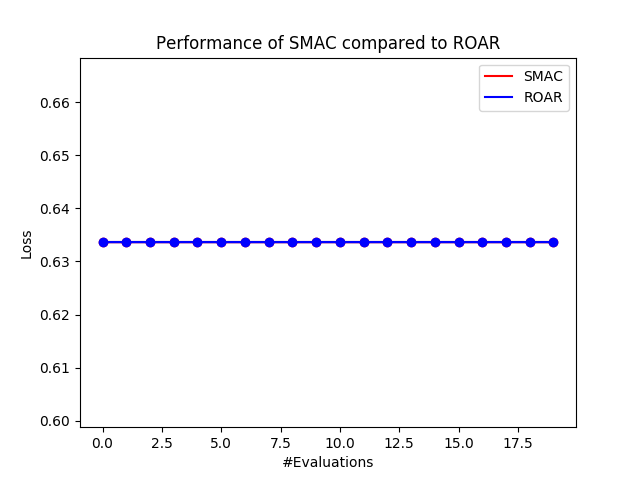
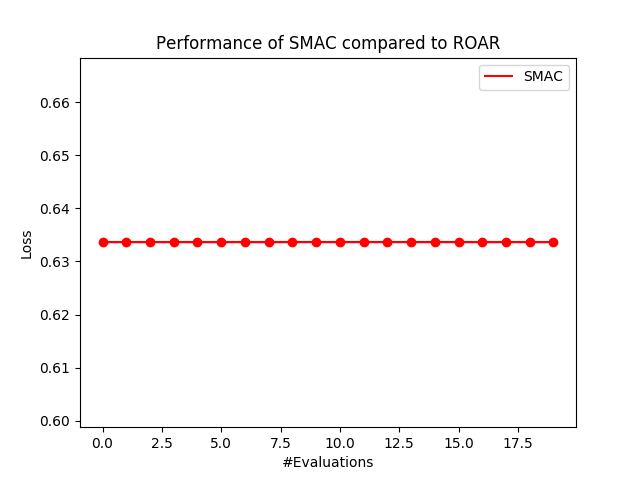
Added plots

Changed region(s): [[0.1562, 0.5, 0.875, 0.5312], [0.75, 0.1875, 0.9062, 0.2188]]

diff --git a/Exercise2/HPO_deep_neural_net/plot_SMAC.py b/Exercise2/HPO_deep_neural_net/plot_SMAC.py
@@ -34,11 +34,12 @@ def main():
     fig1 = plt.figure()
     ax1 = fig1.add_subplot(111)
     x = range(len(cost_incumbent))
-    ax1.plot(x, cost_incumbent, linestyle='None', marker='o', color="black")
-    ax1.plot([0, len(x)], [cost_default, cost_default], 'r-')
+    ax1.plot(x, cost_incumbent, linestyle='None', marker='+', color="black", label='SMAC')
+    ax1.plot([0, len(x)], [cost_default, cost_default], 'r-',label='Default Configuration')
     plt.ylabel("Loss")
     plt.xlabel("SMAC")
-    plt.title("Performance of Incumbent compared to Default Configuration")
+    plt.title("Performance of Incumbents compared to Default Configuration")
+    plt.legend()
     plt.savefig(args.output)
 
 

diff --git a/Exercise2/HPO_deep_neural_net/plot_SMAC_vs_ROAR.py b/Exercise2/HPO_deep_neural_net/plot_SMAC_vs_ROAR.py
@@ -66,9 +66,9 @@ def main():
     ax1.step(smac_med, 'k', where="post", label='SMAC', color='red')
     plt.fill_between(x, smac_25th, smac_75th, alpha=0.5, color='red', step='pre')
     #plot ROAR performance
-    ax1.plot(roar_med, 'o', color='blue')
-    ax1.step(roar_med, 'k', where="post", label='ROAR', color='blue')
-    plt.fill_between(x, roar_25th, roar_75th, alpha=0.5, color='blue', step='pre')
+    #ax1.plot(roar_med, 'o', color='blue')
+    #ax1.step(roar_med, 'k', where="post", label='ROAR', color='blue')
+    #plt.fill_between(x, roar_25th, roar_75th, alpha=0.5, color='blue', step='pre')
 
     plt.ylabel("Loss")
     plt.xlabel("#Evaluations")
